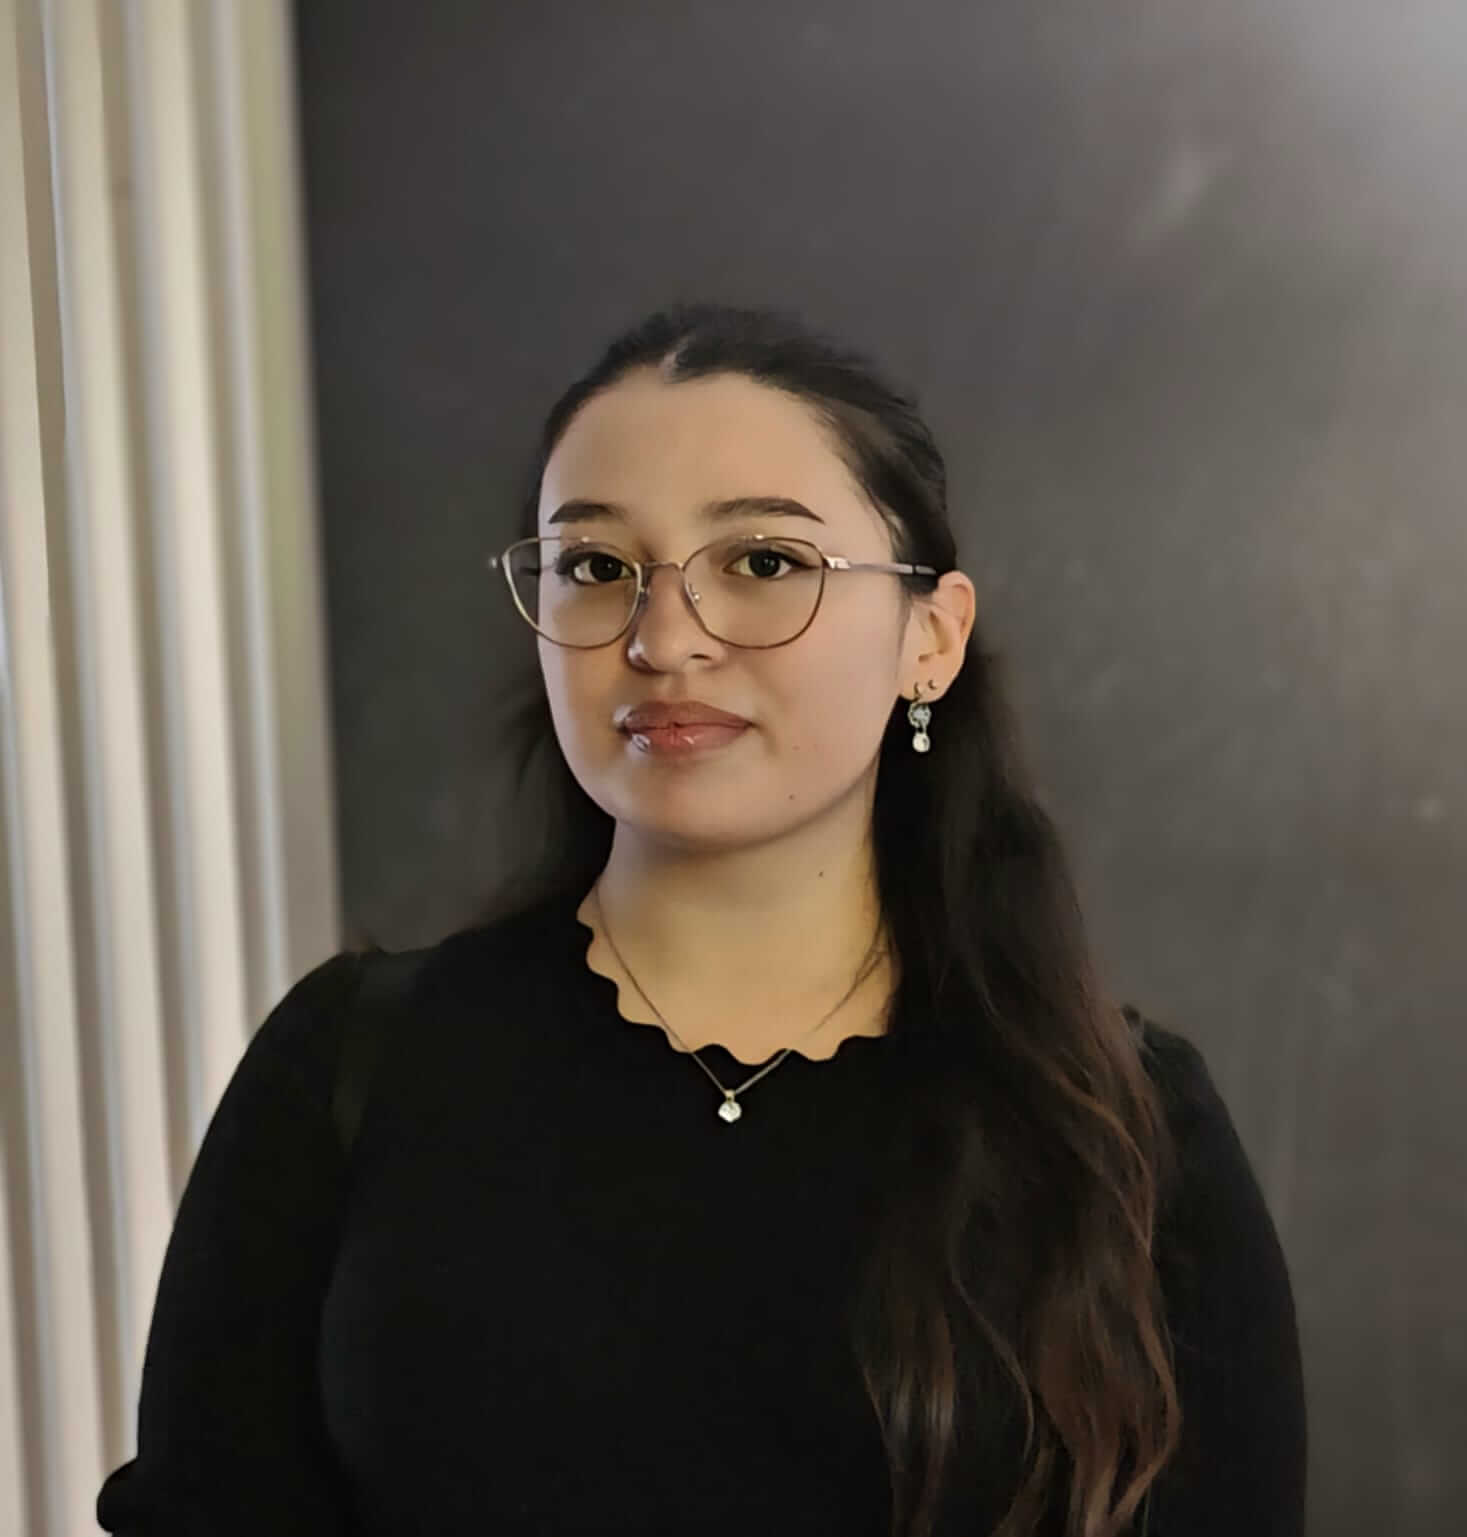
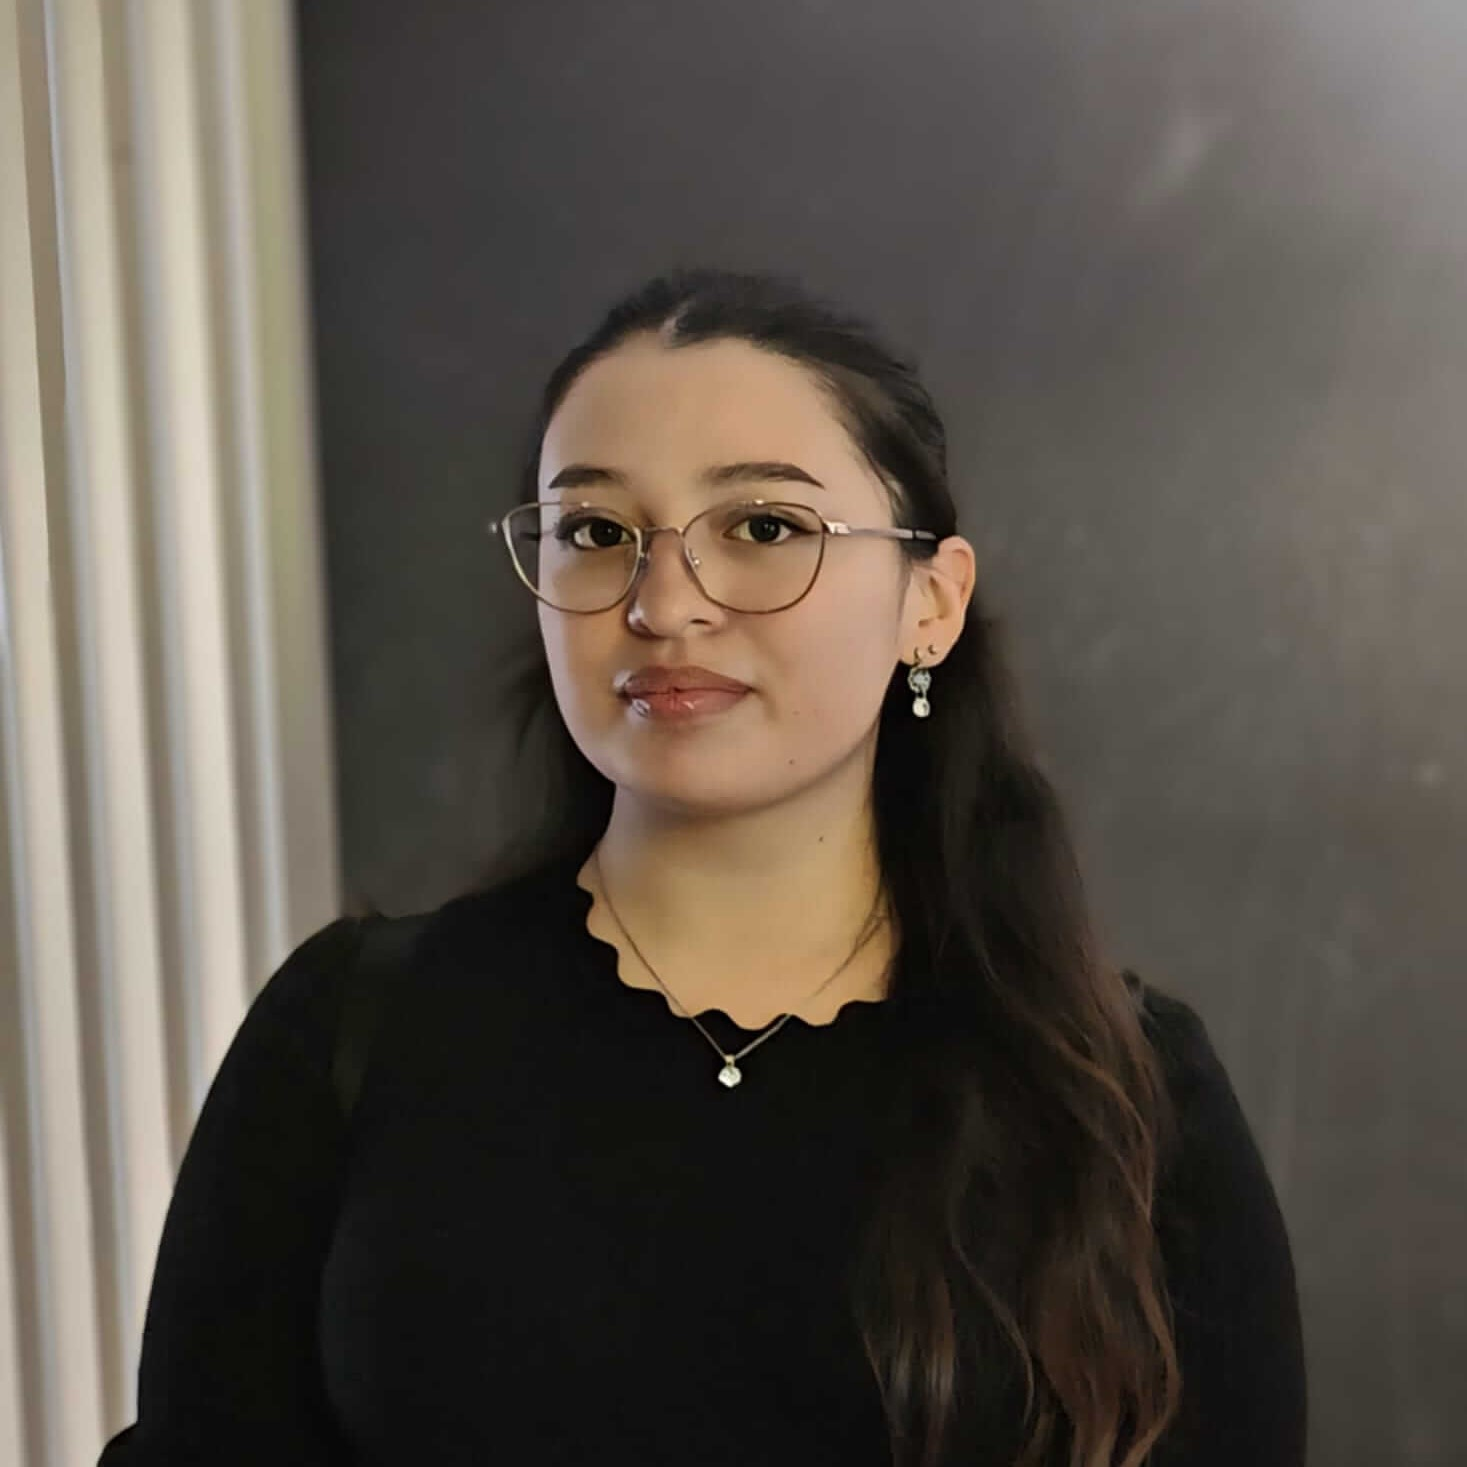
feat: add photo field to board members data

diff --git a/src/data/board.ts b/src/data/board.ts
@@ -31,6 +31,7 @@ export const board: BoardMember[] = [
     role: "Secretaría / Coordinación Documental",
     email: "finanzas@unab.cl",
     linkedinUrl: "https://www.linkedin.com/",
+    photo: "board/Benja.jpeg",
   },
   {
     name: "Ignacio Karlezi",
@@ -49,6 +50,7 @@ export const board: BoardMember[] = [
     role: "Dirección de Marketing / Dirección de Desarrollo Digital",
     email: "alianzas@unab.cl",
     linkedinUrl: "https://www.linkedin.com/",
+    photo: "board/Victoria.jpeg",
   },
   {
     name: "Kiana Kaltennegger",
